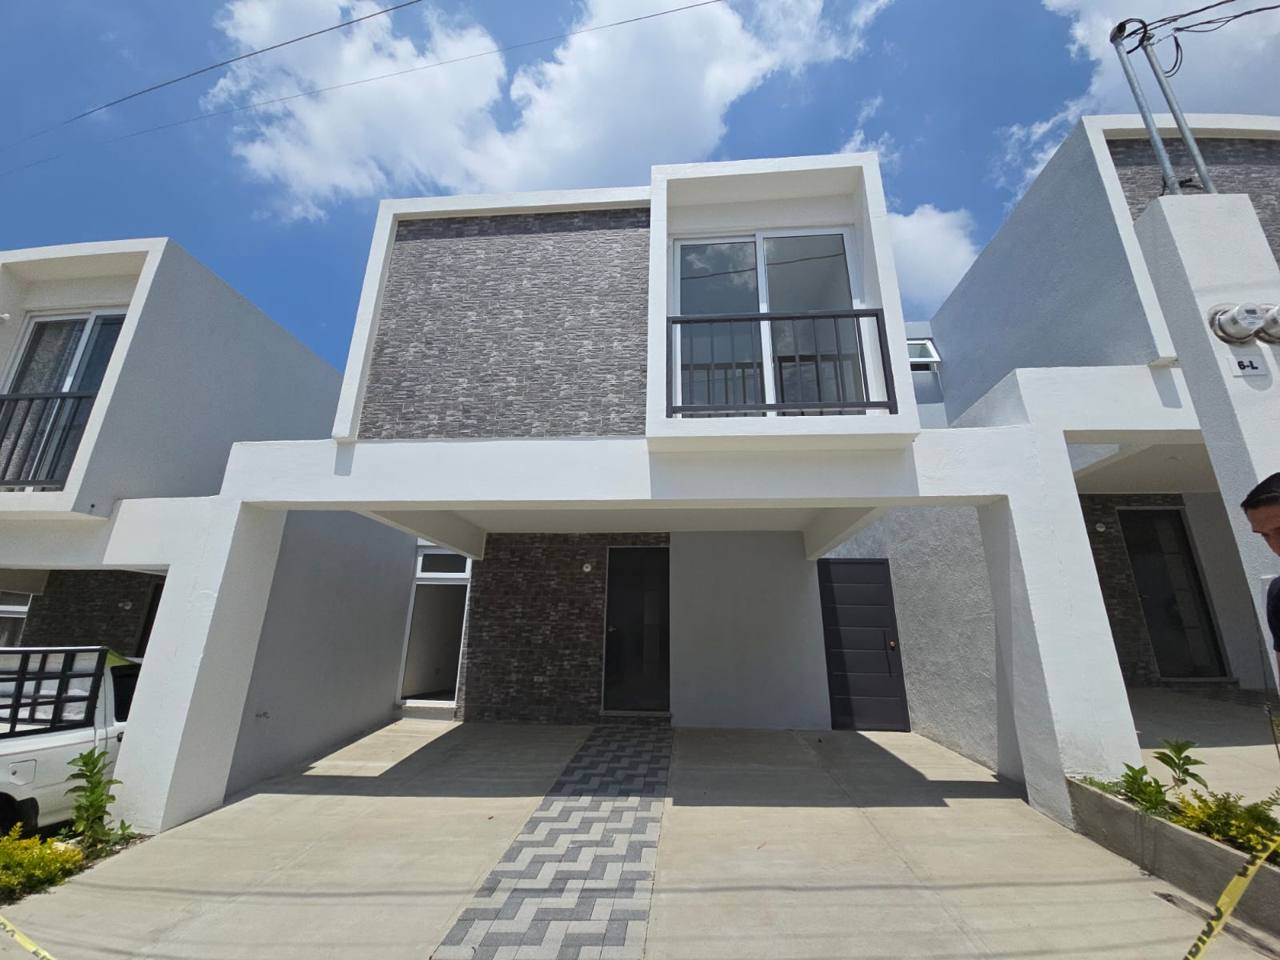
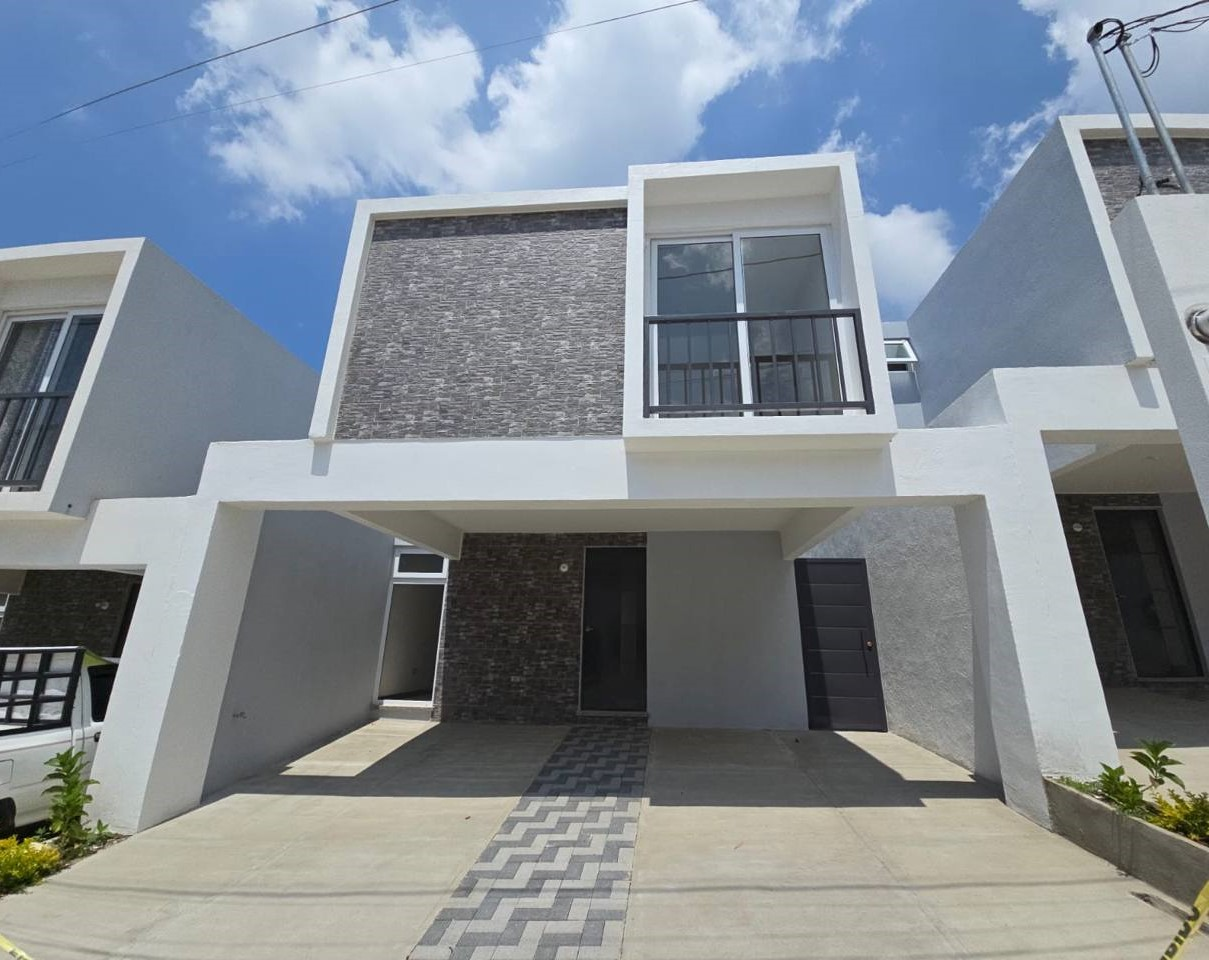
Update Propiedades “casa-zona-14” +1

diff --git a/src/content/propiedades/casa-zona-14.md b/src/content/propiedades/casa-zona-14.md
@@ -27,7 +27,7 @@ amenidades:
   - Cancha Deportiva
   - Salón Social
   - Areas Pet Friendly
-imagenPortada: /images/hero-bg.jpg
+imagenPortada: /images/uploads/frente.jpg
 galeria:
   - /images/uploads/frente.jpg
   - /images/uploads/photo_2026-06-01_10-29-42.jpg
@@ -37,33 +37,72 @@ destacada: true
 fechaPublicacion: 2026-07-14
 ---
 
-🏡 Casa en Renta en Altos de Village II  
-Tu nuevo hogar te espera en una zona tranquila y accesible en Villa Canales.
+## Casa en Renta – Altos de Village II
 
-📍 Ubicación: Km 25.5 al 26, desvío a Santa Elena Barillas  
+Vive en un entorno residencial tranquilo, seguro y con excelente acceso en Villa Canales.
 
-✨ Características principales:  
-• Casa familiar de dos niveles  
-• 3 habitaciones (principal con baño privado y walking closet)  
-• Habitaciones secundarias con baño compartido  
-• Sala, comedor y cocina con gabinetes  
-• Baño de visitas  
-• Bodega debajo de gradas  
-• Jardín privado  
-• Pila y calentador  
-• Parqueo para 2 vehículos  
+### Ubicación
 
-📐 Área:  
-• Terreno: 112 m²  
-• Construcción: 125 m²  
+📍 Km 25.5 al 26, desvío a Santa Elena Barillas.
 
-💰 Renta mensual: Q5,100
+---
 
-Ideal para familias que buscan comodidad, seguridad y un ambiente residencial agradable.
+### Características
 
-📲 Más información o agendar visita:  
-Escríbeme por WhatsApp y con gusto te apoyo.
+- Casa de dos niveles
 
-— Estuardo Vásquez | Servicios AZ Inmobiliarios
+- 3 habitaciones
 
-Más información 5612-0160
+- Dormitorio principal con baño privado y walking closet
+
+- 2 habitaciones secundarias con baño compartido
+
+- Sala y comedor
+
+- Cocina con gabinetes
+
+- Baño de visitas
+
+- Bodega bajo las gradas
+
+- Jardín privado
+
+- Área de lavandería con pila
+
+- Calentador de agua
+
+- Parqueo para 2 vehículos
+
+---
+
+### Dimensiones
+
+- Terreno: 112 m²
+
+- Construcción: 125 m²
+
+---
+
+### Precio de renta
+
+Incluye mantenimiento
+
+---
+
+### Ideal para
+
+- Familias
+
+- Profesionales
+
+- Personas que buscan un ambiente residencial, seguro y con fácil acceso a la ciudad
+
+---
+
+### Información y visitas
+
+**Estuardo Vásquez**
+
+Servicios AZ Inmobiliarios
+
+📞 WhatsApp: [phone redacted]